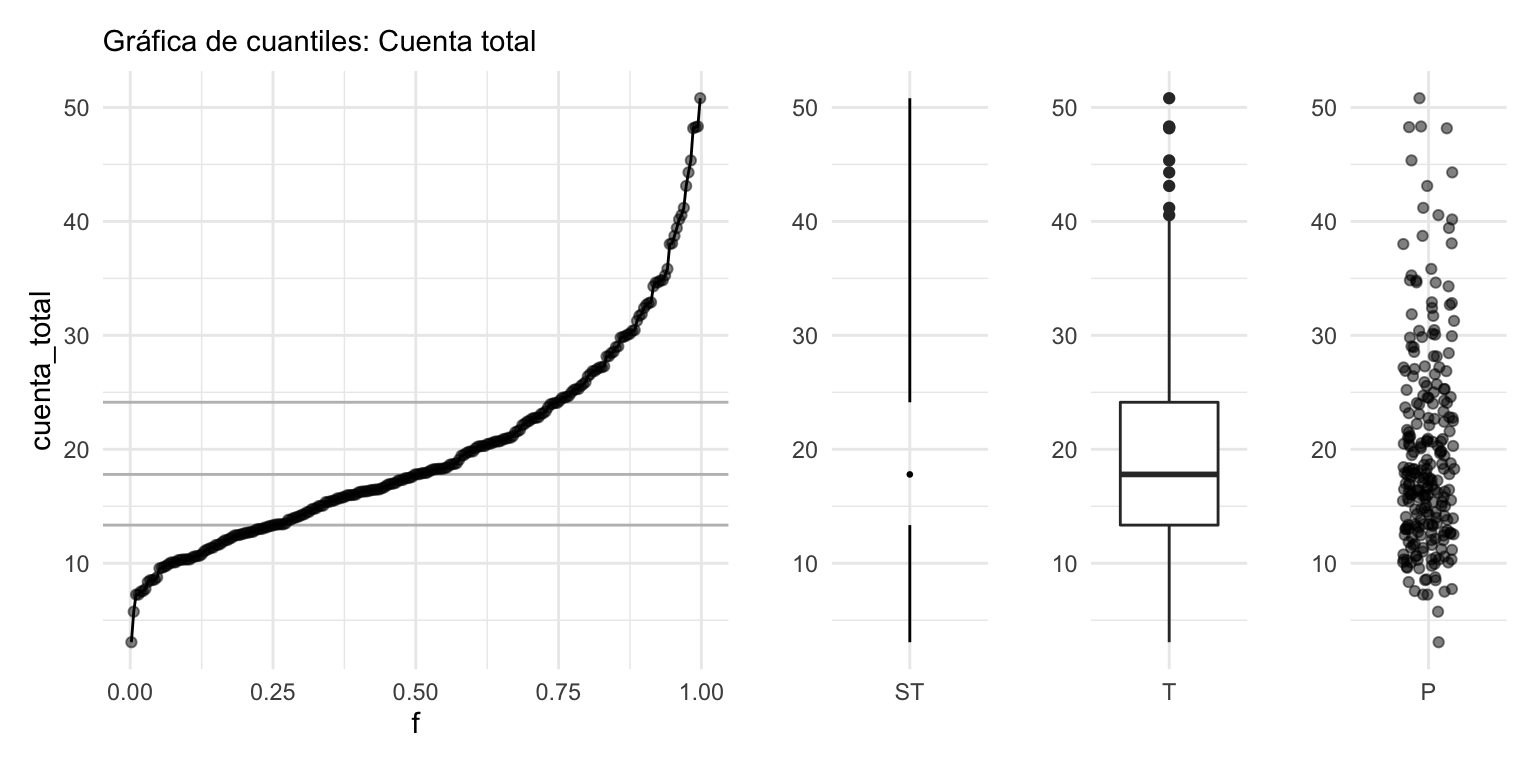
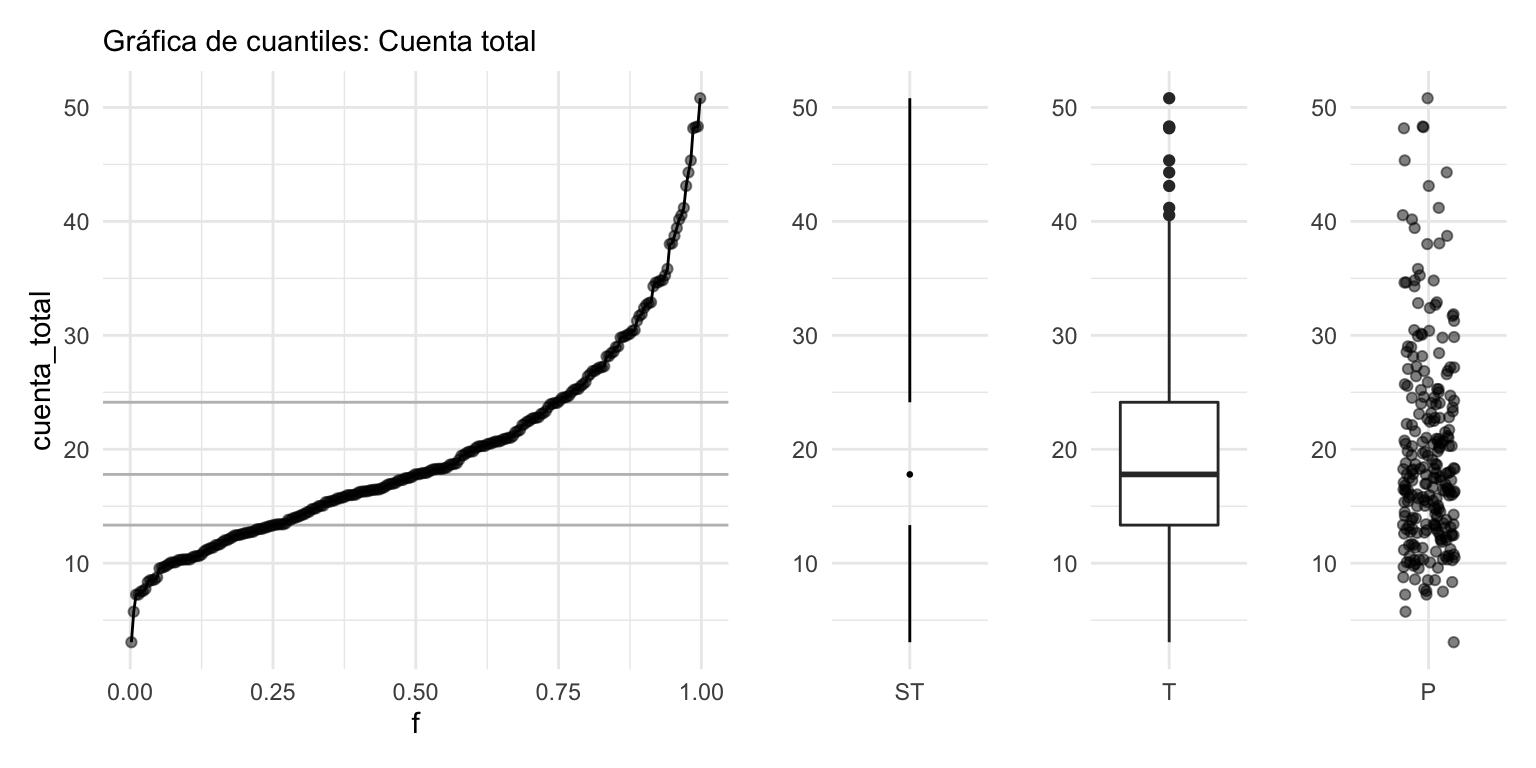
tereom published a site update

diff --git a/analisis-exploratorio.html b/analisis-exploratorio.html
@@ -283,6 +283,62 @@ cuatro días consecutivos:</p>
 </thead>
 <tbody>
 <tr class="odd">
+<td align="right">17.07</td>
+<td align="right">3.00</td>
+<td align="left">No</td>
+<td align="left">Sab</td>
+<td align="left">Cena</td>
+<td align="right">3</td>
+</tr>
+<tr class="even">
+<td align="right">11.24</td>
+<td align="right">1.76</td>
+<td align="left">Yes</td>
+<td align="left">Sab</td>
+<td align="left">Cena</td>
+<td align="right">2</td>
+</tr>
+<tr class="odd">
+<td align="right">12.90</td>
+<td align="right">1.10</td>
+<td align="left">Yes</td>
+<td align="left">Sab</td>
+<td align="left">Cena</td>
+<td align="right">2</td>
+</tr>
+<tr class="even">
+<td align="right">12.54</td>
+<td align="right">2.50</td>
+<td align="left">No</td>
+<td align="left">Dom</td>
+<td align="left">Cena</td>
+<td align="right">2</td>
+</tr>
+<tr class="odd">
+<td align="right">22.67</td>
+<td align="right">2.00</td>
+<td align="left">Yes</td>
+<td align="left">Sab</td>
+<td align="left">Cena</td>
+<td align="right">2</td>
+</tr>
+<tr class="even">
+<td align="right">13.81</td>
+<td align="right">2.00</td>
+<td align="left">Yes</td>
+<td align="left">Sab</td>
+<td align="left">Cena</td>
+<td align="right">2</td>
+</tr>
+<tr class="odd">
+<td align="right">34.81</td>
+<td align="right">5.20</td>
+<td align="left">No</td>
+<td align="left">Dom</td>
+<td align="left">Cena</td>
+<td align="right">4</td>
+</tr>
+<tr class="even">
 <td align="right">40.17</td>
 <td align="right">4.73</td>
 <td align="left">Yes</td>
@@ -290,75 +346,19 @@ cuatro días consecutivos:</p>
 <td align="left">Cena</td>
 <td align="right">4</td>
 </tr>
-<tr class="even">
-<td align="right">11.61</td>
-<td align="right">3.39</td>
+<tr class="odd">
+<td align="right">9.55</td>
+<td align="right">1.45</td>
 <td align="left">No</td>
 <td align="left">Sab</td>
 <td align="left">Cena</td>
 <td align="right">2</td>
 </tr>
-<tr class="odd">
-<td align="right">20.08</td>
-<td align="right">3.15</td>
-<td align="left">No</td>
-<td align="left">Sab</td>
-<td align="left">Cena</td>
-<td align="right">3</td>
-</tr>
 <tr class="even">
-<td align="right">24.01</td>
-<td align="right">2.00</td>
-<td align="left">Yes</td>
-<td align="left">Sab</td>
-<td align="left">Cena</td>
-<td align="right">4</td>
-</tr>
-<tr class="odd">
-<td align="right">16.31</td>
-<td align="right">2.00</td>
-<td align="left">No</td>
-<td align="left">Sab</td>
-<td align="left">Cena</td>
-<td align="right">3</td>
-</tr>
-<tr class="even">
-<td align="right">15.38</td>
-<td align="right">3.00</td>
+<td align="right">27.28</td>
+<td align="right">4.00</td>
 <td align="left">Yes</td>
 <td align="left">Vie</td>
-<td align="left">Cena</td>
-<td align="right">2</td>
-</tr>
-<tr class="odd">
-<td align="right">31.71</td>
-<td align="right">4.50</td>
-<td align="left">No</td>
-<td align="left">Dom</td>
-<td align="left">Cena</td>
-<td align="right">4</td>
-</tr>
-<tr class="even">
-<td align="right">11.38</td>
-<td align="right">2.00</td>
-<td align="left">No</td>
-<td align="left">Jue</td>
-<td align="left">Comida</td>
-<td align="right">2</td>
-</tr>
-<tr class="odd">
-<td align="right">17.31</td>
-<td align="right">3.50</td>
-<td align="left">No</td>
-<td align="left">Dom</td>
-<td align="left">Cena</td>
-<td align="right">2</td>
-</tr>
-<tr class="even">
-<td align="right">22.12</td>
-<td align="right">2.88</td>
-<td align="left">Yes</td>
-<td align="left">Sab</td>
 <td align="left">Cena</td>
 <td align="right">2</td>
 </tr>

diff --git a/02-exploratorio.md b/02-exploratorio.md
@@ -82,16 +82,16 @@ sample_n(propinas, 10) %>% formatear_tabla()
 
 | cuenta_total| propina|fumador |dia |momento | num_personas|
 |------------:|-------:|:-------|:---|:-------|------------:|
+|        17.07|    3.00|No      |Sab |Cena    |            3|
+|        11.24|    1.76|Yes     |Sab |Cena    |            2|
+|        12.90|    1.10|Yes     |Sab |Cena    |            2|
+|        12.54|    2.50|No      |Dom |Cena    |            2|
+|        22.67|    2.00|Yes     |Sab |Cena    |            2|
+|        13.81|    2.00|Yes     |Sab |Cena    |            2|
+|        34.81|    5.20|No      |Dom |Cena    |            4|
 |        40.17|    4.73|Yes     |Vie |Cena    |            4|
-|        11.61|    3.39|No      |Sab |Cena    |            2|
-|        20.08|    3.15|No      |Sab |Cena    |            3|
-|        24.01|    2.00|Yes     |Sab |Cena    |            4|
-|        16.31|    2.00|No      |Sab |Cena    |            3|
-|        15.38|    3.00|Yes     |Vie |Cena    |            2|
-|        31.71|    4.50|No      |Dom |Cena    |            4|
-|        11.38|    2.00|No      |Jue |Comida  |            2|
-|        17.31|    3.50|No      |Dom |Cena    |            2|
-|        22.12|    2.88|Yes     |Sab |Cena    |            2|
+|         9.55|    1.45|No      |Sab |Cena    |            2|
+|        27.28|    4.00|Yes     |Vie |Cena    |            2|
 
 
 Aquí la unidad de observación es una cuenta particular. Tenemos tres mediciones
